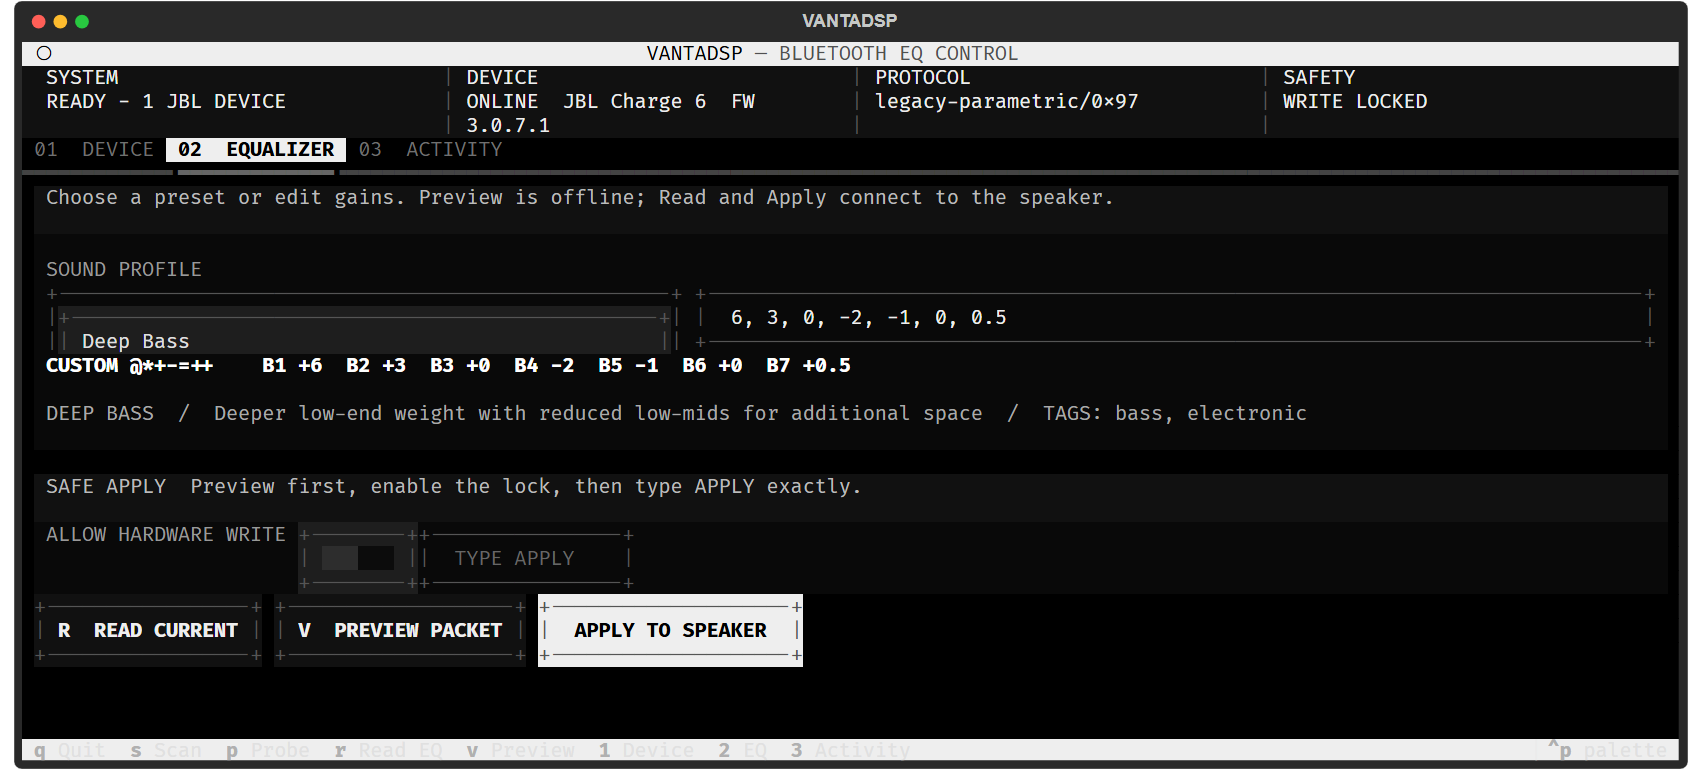
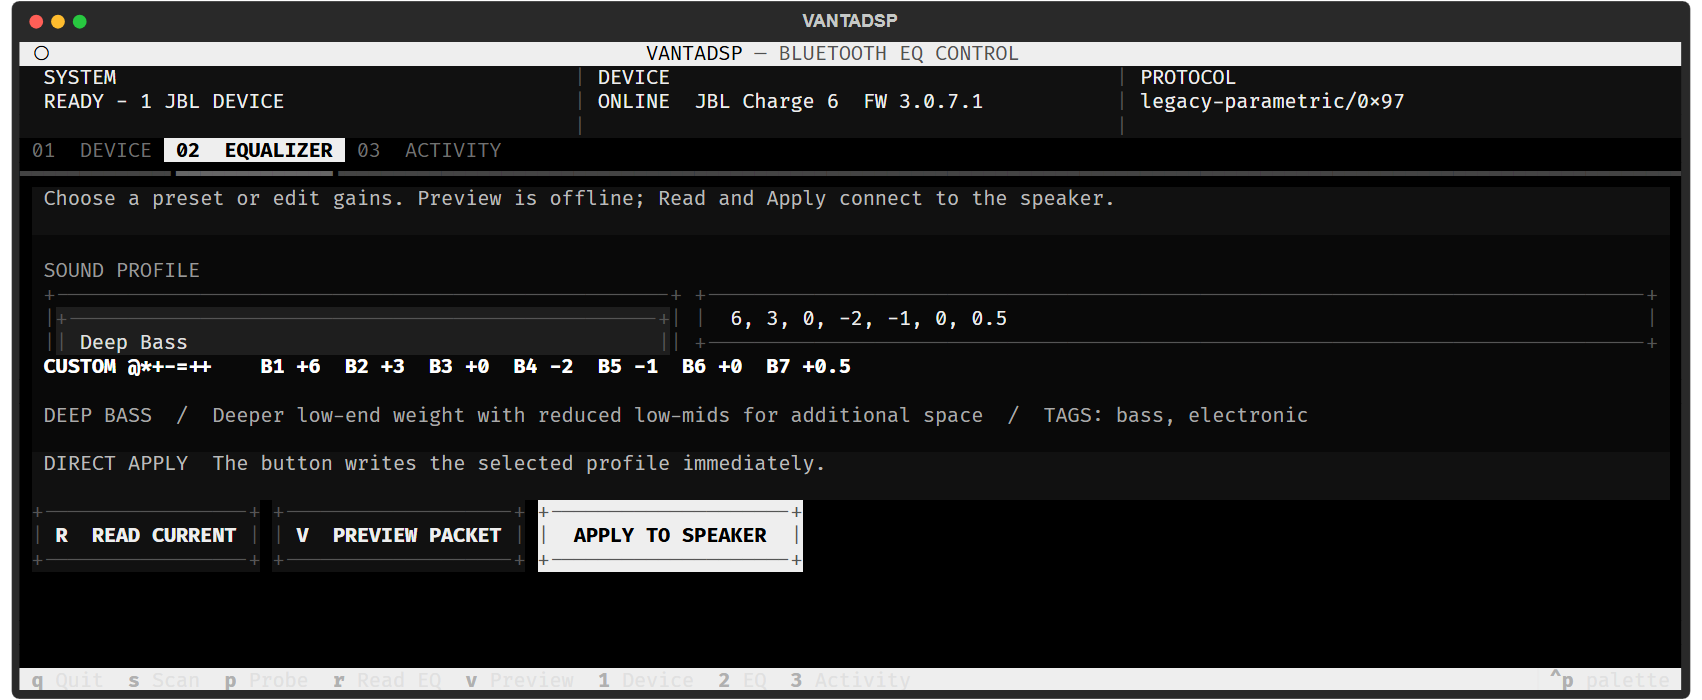
Enable direct TUI apply

Changed region(s): [[0.0, 0.0, 0.9965, 0.99]]

diff --git a/src/vantadsp/tui.py b/src/vantadsp/tui.py
@@ -18,7 +18,6 @@ from textual.widgets import (
     RichLog,
     Select,
     Static,
-    Switch,
     TabbedContent,
     TabPane,
 )
@@ -59,8 +58,6 @@ class VantaDSPApp(App[None]):
     Select:focus > SelectCurrent { border: ascii #ffffff; }
     SelectCurrent .arrow { display: none; }
     Select > SelectOverlay { border: ascii #ffffff; }
-    Switch { border: ascii #555555; padding: 0 1; }
-    Switch:focus { border: ascii #ffffff; }
     Toast { width: 42; max-width: 40%; padding: 0 1; margin-top: 0; border: ascii #ffffff; }
     #devices { height: 1fr; border: ascii #555555; background: #000000; }
     #profile-panel { height: 9; padding: 1; background: #090909; }
@@ -69,14 +66,10 @@ class VantaDSPApp(App[None]):
     #profile-row Input { width: 3fr; }
     #curve { height: 2; color: #ffffff; text-style: bold; }
     #profile-info { color: #aaaaaa; }
-    #safety-guide { margin-top: 1; }
-    #interlock { height: 3; padding: 0 1; background: #090909; align-vertical: middle; }
     .actions { height: 3; align-vertical: middle; }
     .actions Button { min-width: 18; margin-right: 1; background: #111111; color: #eeeeee; border: ascii #555555; }
     .actions Button:hover, .actions Button:focus { background: #eeeeee; color: #000000; border: ascii #ffffff; }
     #apply { min-width: 22; background: #eeeeee; color: #000000; text-style: bold; }
-    #guard { width: 10; margin-left: 1; }
-    #confirm { width: 18; }
     #log { height: 1fr; border: ascii #555555; background: #000000; color: #dddddd; }
     """
     BINDINGS: ClassVar = [
@@ -101,7 +94,6 @@ class VantaDSPApp(App[None]):
             yield Static("SYSTEM\nREADY", id="status-system", classes="metric")
             yield Static("DEVICE\nNOT SELECTED", id="status-device", classes="metric")
             yield Static("PROTOCOL\nUNKNOWN", id="status-protocol", classes="metric")
-            yield Static("SAFETY\nWRITE LOCKED", id="status-safety", classes="metric")
         with TabbedContent(initial="device-tab", id="main-tabs"):
             with TabPane("01  DEVICE", id="device-tab"):
                 yield Static(
@@ -137,14 +129,9 @@ class VantaDSPApp(App[None]):
                     yield Static(id="curve")
                     yield Static(id="profile-info")
                 yield Static(
-                    "SAFE APPLY  Preview first, enable the lock, then type APPLY exactly.",
-                    id="safety-guide",
+                    "DIRECT APPLY  The button writes the selected profile immediately.",
                     classes="guide",
                 )
-                with Horizontal(id="interlock"):
-                    yield Label("ALLOW HARDWARE WRITE", classes="field-label")
-                    yield Switch(value=False, id="guard")
-                    yield Input(placeholder="TYPE APPLY", id="confirm")
                 with Horizontal(classes="actions"):
                     yield Button("R  READ CURRENT", id="read")
                     yield Button("V  PREVIEW PACKET", id="preview")
@@ -161,7 +148,7 @@ class VantaDSPApp(App[None]):
         table = self.query_one("#devices", DataTable)
         table.add_columns("NAME", "DETECTED MODEL", "PID", "RSSI", "ADDRESS")
         self._load_profile("balanced")
-        self.log_message("READY  |  Hardware writes are locked. Start with SCAN or select a known address.")
+        self.log_message("READY  |  Direct apply is enabled. Start with SCAN or select a known address.")
 
     def log_message(self, message: str) -> None:
         self.query_one("#log", RichLog).write(message)
@@ -180,9 +167,8 @@ class VantaDSPApp(App[None]):
         system: str | None = None,
         device: str | None = None,
         protocol: str | None = None,
-        safety: str | None = None,
     ) -> None:
-        values = {"system": system, "device": device, "protocol": protocol, "safety": safety}
+        values = {"system": system, "device": device, "protocol": protocol}
         for name, value in values.items():
             if value is not None:
                 self.query_one(f"#status-{name}", Static).update(f"{name.upper()}\n{value}")
@@ -286,14 +272,6 @@ class VantaDSPApp(App[None]):
             self._load_profile(str(event.value))
 
     def on_input_changed(self, event: Input.Changed) -> None:
-        if event.input.id == "confirm":
-            armed = self.query_one("#guard", Switch).value
-            if armed and event.value == "APPLY":
-                self._status(safety="ARMED - READY TO APPLY")
-                self.query_one("#safety-guide", Static).update(
-                    "READY  Review the profile, then press APPLY TO SPEAKER. This performs a live hardware write."
-                )
-            return
         if event.input.id != "gains" or not event.value.strip():
             return
         try:
@@ -304,15 +282,6 @@ class VantaDSPApp(App[None]):
             )
         except ValueError:
             self.query_one("#curve", Static).update("CUSTOM - invalid numeric gain list")
-
-    def on_switch_changed(self, event: Switch.Changed) -> None:
-        if event.switch.id == "guard":
-            self._status(safety="ARMED - TYPE APPLY" if event.value else "WRITE LOCKED")
-            self.query_one("#safety-guide", Static).update(
-                "ARMED  Type APPLY in the confirmation field to continue."
-                if event.value
-                else "SAFE APPLY  Preview first, enable the lock, then type APPLY exactly."
-            )
 
     async def on_button_pressed(self, event: Button.Pressed) -> None:
         actions = {"scan": self.action_scan, "probe": self.action_probe, "read": self.action_read}
@@ -458,15 +427,6 @@ class VantaDSPApp(App[None]):
             self.notify(str(exc), title="Preview rejected", severity="warning")
 
     def apply_eq(self) -> None:
-        guard = self.query_one("#guard", Switch).value
-        phrase = self.query_one("#confirm", Input).value
-        if not guard or phrase != "APPLY":
-            self._status(safety="BLOCKED - CHECK INTERLOCK")
-            self.log_message("BLOCK   |  Enable WRITE INTERLOCK and type APPLY exactly.")
-            self.query_one("#safety-guide", Static).update(
-                "WRITE BLOCKED  Enable ALLOW HARDWARE WRITE and type APPLY exactly. Nothing was sent."
-            )
-            return
         self.apply_worker()
 
     @work(exclusive=True)
@@ -475,7 +435,7 @@ class VantaDSPApp(App[None]):
             address, pid, gains = self._address(), self._pid(), self._gains()
             path, frames = auto_eq_frames(pid, gains)
             self._save_context()
-            self._status(system="WRITING EQ...", safety="LIVE WRITE IN PROGRESS")
+            self._status(system="WRITING EQ...")
             self.log_message(f"WRITE   |  {path}  |  profile={self._profile_key()}  |  gains={gains}")
             replies: list[bytes] = []
             async with BleTransport(
@@ -499,17 +459,14 @@ class VantaDSPApp(App[None]):
                     "rx": [hex_bytes(reply) for reply in replies],
                 },
             )
-            self._status(system="WRITE COMPLETE", safety="WRITE LOCKED")
+            self._status(system="WRITE COMPLETE")
             self.log_message(f"WRITE   |  Complete  |  {len(replies)} reply frame(s)  |  Audit record saved")
-            self.notify("EQ was written and the safety lock was restored.", title="Write complete")
+            self.notify("EQ was written to the speaker.", title="Write complete")
             for reply in replies:
                 self.log_message(json.dumps(describe_frame(reply), ensure_ascii=False, indent=2))
         except Exception as exc:
-            self._status(system="WRITE FAILED", safety="WRITE LOCKED")
+            self._status(system="WRITE FAILED")
             self._report_error("Apply", exc)
-        finally:
-            self.query_one("#guard", Switch).value = False
-            self.query_one("#confirm", Input).value = ""
 
 
 def main() -> None:

diff --git a/tests/test_tui.py b/tests/test_tui.py
@@ -1,7 +1,7 @@
 from pathlib import Path
 
 import pytest
-from textual.widgets import DataTable, Input, Select, Static, Switch
+from textual.widgets import DataTable, Input, Select, Static
 
 import vantadsp.tui as tui_module
 from vantadsp.config import Settings
@@ -9,14 +9,15 @@ from vantadsp.tui import VantaDSPApp
 
 
 @pytest.mark.asyncio
-async def test_tui_mounts_and_write_is_locked():
+async def test_tui_mounts_with_direct_apply():
     app = VantaDSPApp(Settings(last_address="", last_pid="20e3"))
     async with app.run_test(size=(80, 24)) as pilot:
         await pilot.pause()
         assert len(app.query_one("#devices", DataTable).columns) == 5
         assert app.query_one("#devices", DataTable).region.height > 3
-        assert app.query_one("#guard", Switch).value is False
-        assert "WRITE LOCKED" in str(app.query_one("#status-safety", Static).render())
+        assert not app.query("#guard")
+        assert not app.query("#confirm")
+        assert not app.query("#status-safety")
         app.query_one("#profile", Select).value = "bass"
         await pilot.pause()
         assert app.query_one("#gains", Input).value == "6, 4, 1, -1, -1, 0, 1"
@@ -42,13 +43,6 @@ async def test_tui_mounts_and_write_is_locked():
         app.action_eq_tab()
         await pilot.pause()
         assert app.query_one("#main-tabs").active == "eq-tab"
-        app.apply_eq()
-        assert app.query_one("#confirm", Input).value == ""
-        assert "WRITE BLOCKED" in str(app.query_one("#safety-guide", Static).render())
-        app.query_one("#guard", Switch).value = True
-        app.query_one("#confirm", Input).value = "APPLY"
-        await pilot.pause()
-        assert "READY TO APPLY" in str(app.query_one("#status-safety", Static).render())
 
 
 def test_tui_source_is_legacy_console_safe():

diff --git a/docs/AUDIT.md b/docs/AUDIT.md
@@ -25,7 +25,7 @@ The first environment-wide dependency scan found vulnerabilities in unrelated pa
 | Risk | Control | Residual risk |
 |---|---|---|
 | Wrong protocol sent to a model | PID capability database, `auto_read_frames`, `auto_eq_frames`, range/count validation | APK data or a future firmware can still differ; run `probe` first |
-| Accidental mutation | CLI dry-run; TUI switch plus exact `APPLY`; preview shows encoded bytes | User can explicitly bypass guards or use raw mode |
+| Accidental mutation | CLI dry-run; TUI clearly labels direct apply; preview shows encoded bytes | A TUI apply click writes immediately; raw mode remains expert-only |
 | Device identifier leakage | APK/captures/config/audit ignored by Git; audit stores 16-char SHA-256-derived fingerprint | Terminal screenshots and manually copied output can still reveal addresses |
 | Corrupt or partial BLE response | frame length validation and decode errors | Protocol 4 multi-notification reassembly is limited to the notifications returned by one transaction window |
 | Concurrent app connection | documented instruction to close the mobile app | OS/firmware arbitration differs by platform |
@@ -40,7 +40,7 @@ The first environment-wide dependency scan found vulnerabilities in unrelated pa
 - Profile matrix tests resolve and encode all 24 profiles across all 21 EQ-capable PIDs (504 model/profile combinations).
 - Negative tests cover invalid gain counts, non-integer legacy levels, invalid UI steps, unknown PID/preset, malformed configuration, and TUI write lock.
 - Fake transports exercise write response selection and probe classification without requiring Bluetooth hardware.
-- Textual `run_test` verifies the TUI mounts headlessly and remains write-locked.
+- Textual `run_test` verifies the TUI mounts headlessly with direct-apply controls.
 - Hardware verification is intentionally opt-in and currently covers JBL Charge 6 PID `20E3`, firmware `3.0.7.1`.
 
 ## Known limitations

diff --git a/README.md b/README.md
@@ -17,7 +17,7 @@ VantaDSP is a safety-first Python toolkit and monochrome terminal interface for 
 - PID-based automatic protocol routing across 37 catalogued models
 - 24 curated sound profiles mapped to each model's band layout and quantization
 - Read-only multi-generation probing, raw packet capture/decoding, and expert packet transmission
-- Dry-run by default, explicit write interlocks, target hashing, and JSONL audit logs
+- CLI dry-run by default, direct TUI apply, target hashing, and JSONL audit logs
 
 ## Install
 
@@ -47,7 +47,7 @@ Launch the TUI:
 vantatui
 ```
 
-The interface provides DEVICE, EQUALIZER, and ACTIVITY workspaces, plus a detailed SYSTEM / DEVICE / PROTOCOL / SAFETY status strip. Writes remain locked until enabled and confirmed with the exact text `APPLY`. Audit records store a hash of the target instead of its Bluetooth address.
+The interface provides DEVICE, EQUALIZER, and ACTIVITY workspaces, plus a detailed SYSTEM / DEVICE / PROTOCOL status strip. `APPLY TO SPEAKER` writes the selected profile immediately after model and gain validation. Audit records store a hash of the target instead of its Bluetooth address.
 
 Runtime configuration and audit files are stored under `%LOCALAPPDATA%\vantadsp\` on Windows. Bluetooth must be enabled, and Windows must permit desktop apps to use Bluetooth and location. For SPP, pair the speaker first and locate its outgoing COM port in Device Manager.
 

diff --git a/SECURITY.md b/SECURITY.md
@@ -10,6 +10,6 @@ Do not publish device identifiers, Bluetooth captures, pairing material, or a wo
 
 ## Device safety boundary
 
-This project supports documented EQ inspection/control only. OTA flashing, authentication bypass, factory reset automation, hidden diagnostic commands, and destructive fuzzing are out of scope. Mutation commands default to dry-run. The TUI requires a switch and an exact `APPLY` confirmation, and stores only a SHA-256-derived target fingerprint in its audit log.
+This project supports documented EQ inspection/control only. OTA flashing, authentication bypass, factory reset automation, hidden diagnostic commands, and destructive fuzzing are out of scope. CLI mutation commands default to dry-run. The TUI uses direct apply after model and gain validation and stores only a SHA-256-derived target fingerprint in its audit log.
 
 Bluetooth addresses and manufacturer data can identify hardware. They are excluded by `.gitignore`; sanitize logs before sharing.
